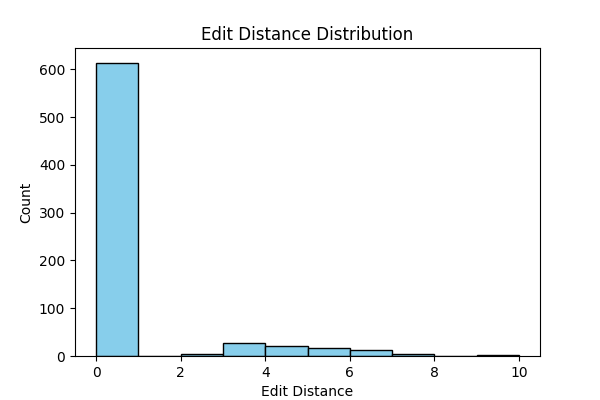
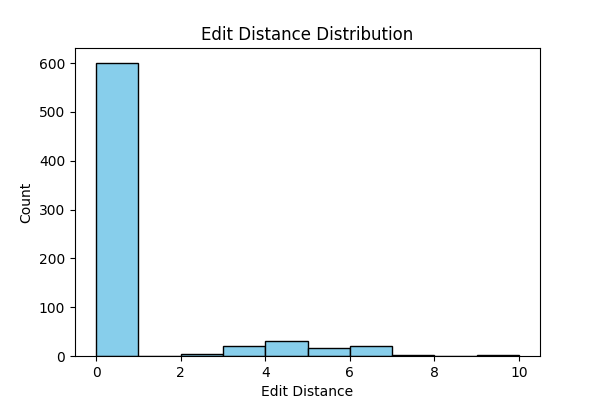
Final Version ig

diff --git a/predict.py b/predict.py
@@ -87,35 +87,6 @@ def find_closest_name(prediction, valid_names, max_distance=2):
                 for j, c2 in enumerate(s2):
                     insertions = previous_row[j + 1] + 1
                     deletions = current_row[j] + 1
-                    substitutions = previous_row
-
-def load_valid_medicine_names(csv_paths):
-    """Load all unique medicine names from provided CSV files."""
-    names = set()
-    for csv_path in csv_paths:
-        if os.path.exists(csv_path):
-            df = pd.read_csv(csv_path)
-            names.update(df['MEDICINE_NAME'].astype(str).unique())
-    return list(names)
-
-def find_closest_name(prediction, valid_names, max_distance=2):
-    """Return the closest valid medicine name if within max_distance, else original prediction."""
-    try:
-        import Levenshtein
-        distance_func = Levenshtein.distance
-    except ImportError:
-        # fallback to pure python implementation
-        def distance_func(s1, s2):
-            if len(s1) < len(s2):
-                return distance_func(s2, s1)
-            if len(s2) == 0:
-                return len(s1)
-            previous_row = list(range(len(s2) + 1))
-            for i, c1 in enumerate(s1):
-                current_row = [i + 1]
-                for j, c2 in enumerate(s2):
-                    insertions = previous_row[j + 1] + 1
-                    deletions = current_row[j] + 1
                     substitutions = previous_row[j] + (c1 != c2)
                     current_row.append(min(insertions, deletions, substitutions))
                 previous_row = current_row
@@ -144,8 +115,6 @@ def predict_medicine_name(
     image,
     model_path=MODEL_PATH,
     char_map_path=CHAR_MAP_PATH,
-    valid_names=None,
-    max_distance=2,
     from_array=False
 ):
     """
@@ -185,14 +154,8 @@ def predict_medicine_name(
 
     confidence = get_confidence(pred)
 
-    # Snap to closest valid name if needed
-    if valid_names is not None:
-        snapped_name = find_closest_name(medicine_name, valid_names, max_distance)
-    else:
-        snapped_name = medicine_name
-
     return {
-        "medicine_name": snapped_name,
+        "medicine_name": medicine_name,
         "confidence": confidence,
         "raw_prediction": medicine_name
     }
@@ -204,8 +167,6 @@ def batch_predict(
     output_csv="results.csv",
     model_path=MODEL_PATH,
     char_map_path=CHAR_MAP_PATH,
-    valid_names=None,
-    max_distance=2,
     image_files=None,
     from_array=False
 ):
@@ -242,14 +203,10 @@ def batch_predict(
             out = K.get_value(decoded[0])[0]
             medicine_name = ''.join([num_to_char.get(j, '') for j in out if j != -1])
             confidence = get_confidence(pred)
-            if valid_names is not None:
-                snapped_name = find_closest_name(medicine_name, valid_names, max_distance)
-            else:
-                snapped_name = medicine_name
             fname = image_files[i] if image_files is not None else f"img_{i}.png"
             results.append({
                 "IMAGE": fname,
-                "MEDICINE_NAME": snapped_name,
+                "MEDICINE_NAME": medicine_name,
                 "CONFIDENCE": confidence,
                 "RAW_PREDICTION": medicine_name
             })
@@ -267,16 +224,23 @@ def batch_predict(
             out = K.get_value(decoded[0])[0]
             medicine_name = ''.join([num_to_char.get(i, '') for i in out if i != -1])
             confidence = get_confidence(pred)
-            if valid_names is not None:
-                snapped_name = find_closest_name(medicine_name, valid_names, max_distance)
-            else:
-                snapped_name = medicine_name
             results.append({
                 "IMAGE": fname,
-                "MEDICINE_NAME": snapped_name,
+                "MEDICINE_NAME": medicine_name,
                 "CONFIDENCE": confidence,
                 "RAW_PREDICTION": medicine_name
             })
+
+    # Write results to CSV
+    if results:
+        keys = results[0].keys()
+        with open(output_csv, "w", newline="") as f:
+            import csv
+            writer = csv.DictWriter(f, fieldnames=keys)
+            writer.writeheader()
+            writer.writerows(results)
+
+    return results
 
 # --- CLI ENTRY POINT (for run_ocr.py) ---
 
@@ -293,20 +257,13 @@ if __name__ == "__main__":
 
     args = parser.parse_args()
 
-    # Load valid medicine names for snapping
-    valid_names = load_valid_medicine_names([
-        "trainingData/Training/training_labels.csv",
-        "trainingData/Validation/validation_labels.csv",
-        "trainingData/Testing/testing_labels.csv"
-    ])
-
     if args.image:
         if args.np_image:
             import numpy as np
             img_array = np.load(args.image)
-            result = predict_medicine_name(img_array, valid_names=valid_names, from_array=True)
+            result = predict_medicine_name(img_array, from_array=True)
         else:
-            result = predict_medicine_name(args.image, valid_names=valid_names)
+            result = predict_medicine_name(args.image)
         print(f"Predicted Medicine Name: {result['medicine_name']}")
         print(f"Confidence: {result['confidence']:.4f}")
         print(f"Raw Prediction: {result['raw_prediction']}")
@@ -325,8 +282,27 @@ if __name__ == "__main__":
         if args.np_batch:
             import numpy as np
             images = np.load(args.folder)
-            batch_predict(images, args.output, valid_names=valid_names, from_array=True)
+            results = batch_predict(images, args.output, from_array=True)
         else:
-            batch_predict(args.folder, args.output, valid_names=valid_names)
+            results = batch_predict(args.folder, args.output)
+        print(f"Batch prediction results saved to {args.output or 'results.csv'}")
+        if args.visualize and results:
+            import matplotlib.pyplot as plt
+            import math
+            n = len(results)
+            cols = 4
+            rows = math.ceil(n / cols)
+            plt.figure(figsize=(16, 4 * rows))
+            for i, res in enumerate(results):
+                img_path = os.path.join(args.folder, res["IMAGE"])
+                img = Image.open(img_path)
+                plt.subplot(rows, cols, i + 1)
+                plt.imshow(img, cmap="gray")
+                plt.title(f"{res['MEDICINE_NAME']}\nConf: {res['CONFIDENCE']:.2f}")
+                plt.axis("off")
+            plt.tight_layout()
+            plt.savefig("predictions_grid.png", dpi=200)
+            plt.savefig("predictions_grid.pdf")
+            print("Saved visualization grid as predictions_grid.png and predictions_grid.pdf")
     else:
         print("Please provide --image or --folder argument for prediction.")

diff --git a/data_loader.py b/data_loader.py
@@ -4,7 +4,7 @@ import pandas as pd
 import tensorflow as tf
 from tensorflow.keras.preprocessing.image import img_to_array, load_img
 from tensorflow.keras.utils import Sequence
-import cv2
+from PIL import Image, ImageEnhance
 import random
 
 # =========================
@@ -53,16 +53,17 @@ class OCRDataLoader:
         # Random brightness
         if random.random() < 0.3:
             factor = 0.7 + 0.6 * random.random()
-            img = cv2.convertScaleAbs(img, alpha=factor, beta=0)
+            enhancer = ImageEnhance.Brightness(Image.fromarray(img))
+            img = np.array(enhancer.enhance(factor))
         # Random rotation
         if random.random() < 0.3:
             angle = random.uniform(-5, 5)
-            M = cv2.getRotationMatrix2D((self.img_width // 2, self.img_height // 2), angle, 1)
-            img = cv2.warpAffine(img, M, (self.img_width, self.img_height), borderMode=cv2.BORDER_REPLICATE)
+            pil_img = Image.fromarray(img)
+            img = np.array(pil_img.rotate(angle, resample=Image.BILINEAR, fillcolor=255))
         # Random noise
         if random.random() < 0.2:
-            noise = np.random.normal(0, 8, img.shape).astype(np.uint8)
-            img = cv2.add(img, noise)
+            noise = np.random.normal(0, 8, img.shape).astype(np.int16)
+            img = np.clip(img.astype(np.int16) + noise, 0, 255).astype(np.uint8)
         # Random erasing
         if random.random() < 0.1:
             x = random.randint(0, self.img_width - 10)
@@ -74,20 +75,21 @@ class OCRDataLoader:
 
     def _preprocess_image(self, img_path):
         # Read image as grayscale
-        img = cv2.imread(os.path.join(self.images_dir, img_path), cv2.IMREAD_GRAYSCALE)
-        if img is None:
-            # If image is missing/corrupt, return blank
-            img = np.ones((self.img_height, self.img_width), dtype=np.uint8) * 255
+        img_fp = os.path.join(self.images_dir, img_path)
+        try:
+            img = Image.open(img_fp).convert("L")
+        except Exception:
+            img = Image.new("L", (self.img_width, self.img_height), 255)
         # Resize and pad
-        h, w = img.shape
+        w, h = img.size
         scale = min(self.img_width / w, self.img_height / h)
         nw, nh = int(w * scale), int(h * scale)
-        img = cv2.resize(img, (nw, nh), interpolation=cv2.INTER_AREA)
-        canvas = np.ones((self.img_height, self.img_width), dtype=np.uint8) * 255
+        img = img.resize((nw, nh), Image.BILINEAR)
+        canvas = Image.new("L", (self.img_width, self.img_height), 255)
         x_offset = (self.img_width - nw) // 2
         y_offset = (self.img_height - nh) // 2
-        canvas[y_offset:y_offset+nh, x_offset:x_offset+nw] = img
-        img = canvas
+        canvas.paste(img, (x_offset, y_offset))
+        img = np.array(canvas)
         if self.augment:
             img = self._augment_image(img)
         img = img.astype(np.float32) / 255.0
@@ -221,19 +223,19 @@ def load_single_image(image_path, config):
     """
     img_height = getattr(config, "IMG_HEIGHT", 128)
     img_width = getattr(config, "IMG_WIDTH", 384)
-    import cv2
-    img = cv2.imread(image_path, cv2.IMREAD_GRAYSCALE)
-    if img is None:
-        img = np.ones((img_height, img_width), dtype=np.uint8) * 255
-    h, w = img.shape
+    try:
+        img = Image.open(image_path).convert("L")
+    except Exception:
+        img = Image.new("L", (img_width, img_height), 255)
+    w, h = img.size
     scale = min(img_width / w, img_height / h)
     nw, nh = int(w * scale), int(h * scale)
-    img = cv2.resize(img, (nw, nh), interpolation=cv2.INTER_AREA)
-    canvas = np.ones((img_height, img_width), dtype=np.uint8) * 255
+    img = img.resize((nw, nh), Image.BILINEAR)
+    canvas = Image.new("L", (img_width, img_height), 255)
     x_offset = (img_width - nw) // 2
     y_offset = (img_height - nh) // 2
-    canvas[y_offset:y_offset+nh, x_offset:x_offset+nw] = img
-    img = canvas.astype(np.float32) / 255.0
+    canvas.paste(img, (x_offset, y_offset))
+    img = np.array(canvas).astype(np.float32) / 255.0
     img = np.expand_dims(img, axis=-1)
     return img
 

diff --git a/run_ocr.py b/run_ocr.py
@@ -795,9 +795,8 @@ def predict_cli(config, args):
     elif args.folder:
         # Batch prediction
         batch_predict(
-            folder=args.folder,
-            output_csv=args.output or "results.csv",
-            visualize=args.visualize
+            args.folder,
+            output_csv=args.output or "results.csv"
         )
         print(f"Batch prediction results saved to {args.output or 'results.csv'}")
     else:
